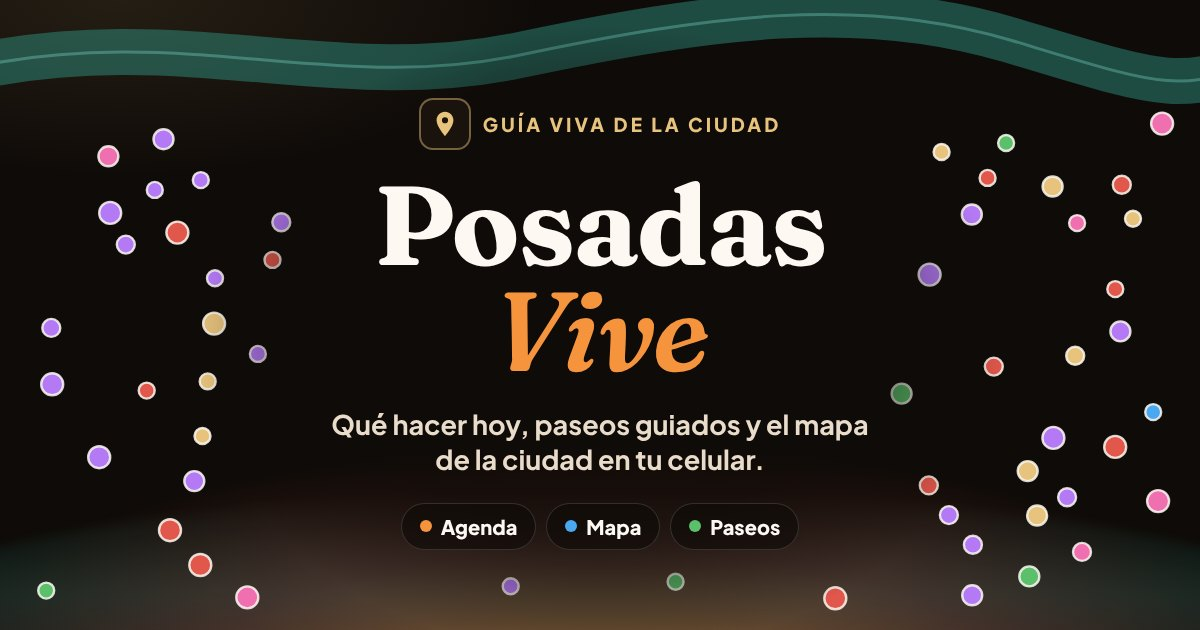
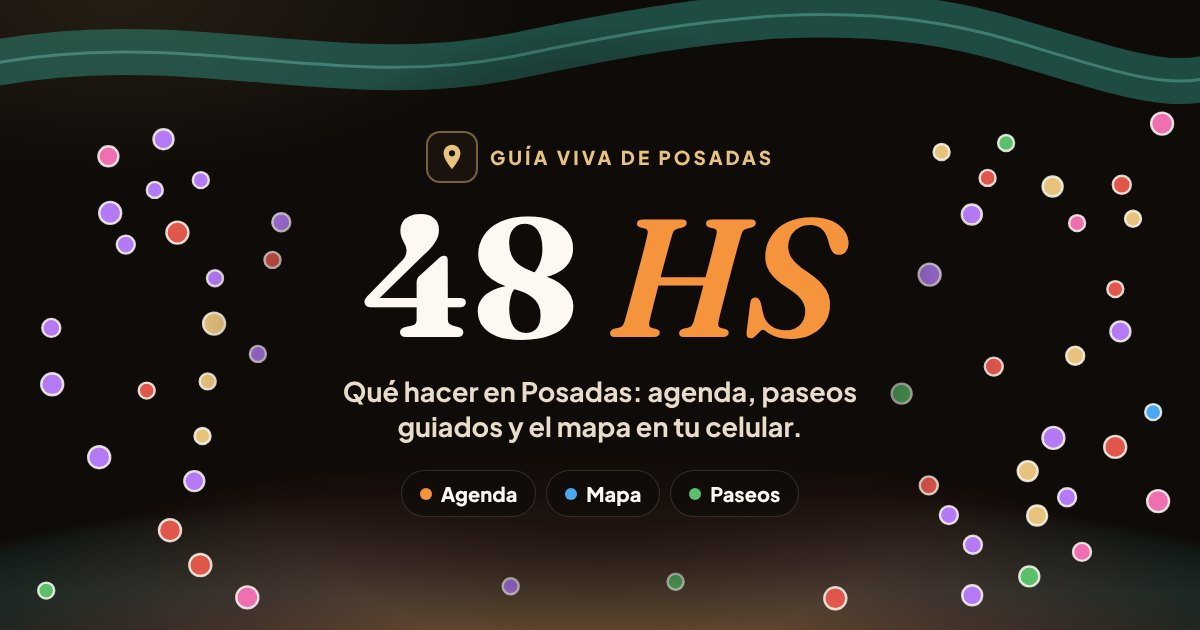
Add files via upload

Changed region(s): [[0.2775, 0.1508, 0.74, 0.8746]]

diff --git a/LEEME.md b/LEEME.md
@@ -1,9 +1,9 @@
-# PosadasVive · temporada de verano
+# 48 HS (antes PosadasVive) · temporada de verano
 
 ## Cómo queda el repositorio
 
 ```
-posadasvive/
+48hs/
 ├── index.html               ← la app                      (se publica)
 ├── sw.js                    ← modo sin conexión            (se publica)
 ├── catalogo.json            ← lugares de la Muni           (se publica)
@@ -19,11 +19,11 @@ posadasvive/
 │   ├── cron.sql
 │   └── functions/avisos/index.ts
 └── datos/
-    └── PosadasVive - Carga de datos.xlsx
+    └── 48 HS - Carga de datos.xlsx
 ```
 
 Con la planilla en `datos/`, el importador se corre así:
-`python herramientas/importar_catalogo.py "datos/PosadasVive - Carga de datos.xlsx" -o catalogo.json`
+`python herramientas/importar_catalogo.py "datos/48 HS - Carga de datos.xlsx" -o catalogo.json`
 
 `.vercelignore` evita que se publiquen `herramientas/`, `supabase/`, `datos/` y la planilla. Es importante por `cron.sql`: cuando le pegues el secreto, ese archivo no puede quedar visible en la web.
 
@@ -32,7 +32,7 @@ Con la planilla en `datos/`, el importador se corre así:
 | Archivo | Qué es |
 |---|---|
 | `index.html` | La app |
-| `sw.js` | Modo sin conexión (versión `pv-2026-10-17-8`) |
+| `sw.js` | Modo sin conexión (versión `pv-2026-10-17-9`) |
 | `reporte.html` | Reporte de uso para la Casa de Turismo |
 | `catalogo.json` | Los lugares de la planilla de la Muni (lo genera el importador) |
 | `manifest.webmanifest` | Sin cambios |
@@ -54,6 +54,10 @@ Lo que depende de la base se activa solo cuando aplicamos el SQL. Hasta entonces
 - **Estadísticas:** la app deja de intentar enviarlas, sin errores.
 - **Reporte con datos reales:** avisa que las estadísticas todavía no están instaladas.
 
+## Nombre
+
+La web se llama **48 HS** (antes PosadasVive). Por dentro quedan algunos nombres técnicos con el prefijo `pv-` (lo que guarda cada teléfono y el caché del modo sin conexión): se dejaron así a propósito para que nadie pierda sus planes guardados ni sus inscripciones al actualizar.
+
 ## Al entrar a la web
 
 - **"¿Qué estás buscando hoy?"**: después de la pantalla de inicio, cada vez. Elegir una categoría filtra el mapa; las que no tienen lugares en el mapa (excursiones) abren la lista en la Agenda. Los enlaces directos a un lugar no la muestran.
@@ -63,7 +67,7 @@ Lo que depende de la base se activa solo cuando aplicamos el SQL. Hasta entonces
 
 ## Cargar los datos de la Muni
 
-1. La Muni completa `PosadasVive - Carga de datos.xlsx`:
+1. La Muni completa `48 HS - Carga de datos.xlsx`:
    - una fila por lugar, con X en todas sus categorías;
    - las fechas de paseos y eventos, en la hoja Agenda;
    - **Video (link):** opcional, sale al tocar el lugar en el mapa. Sirve YouTube (también Shorts), reel de Instagram, TikTok, Vimeo, Google Drive público o un .mp4;
@@ -71,7 +75,7 @@ Lo que depende de la base se activa solo cuando aplicamos el SQL. Hasta entonces
 2. Cuando la devuelven, corrés:
    ```
    pip install openpyxl
-   python herramientas/importar_catalogo.py "PosadasVive - Carga de datos.xlsx" -o catalogo.json
+   python herramientas/importar_catalogo.py "48 HS - Carga de datos.xlsx" -o catalogo.json
    ```
    - Si mandan CSV en lugar del .xlsx: `--lugares Lugares.csv --agenda Agenda.csv`.
    - Avisos: el importador lista lo que hay que corregir (coordenadas fuera de Misiones, teléfonos raros, IDs de la Agenda que no existen, enlaces de video que no reconoce).
@@ -116,7 +120,7 @@ La app junta el catálogo con la lista que trae adentro:
      |---|---|
      | `AVISOS_SECRET` | Una cadena larga al azar, la misma que va en `cron.sql` |
      | `RESEND_API_KEY` | La clave de Resend |
-     | `REMITENTE` | `PosadasVive <avisos@tu-dominio>` |
+     | `REMITENTE` | `48 HS <avisos@tu-dominio>` |
      | `APP_URL` | `https://TU-DOMINIO/` |
      | `REPORTE_DESTINATARIOS` | Emails de Turismo, separados por coma |
      | `REPORTE_CLAVE` | La misma clave del paso 2 |
